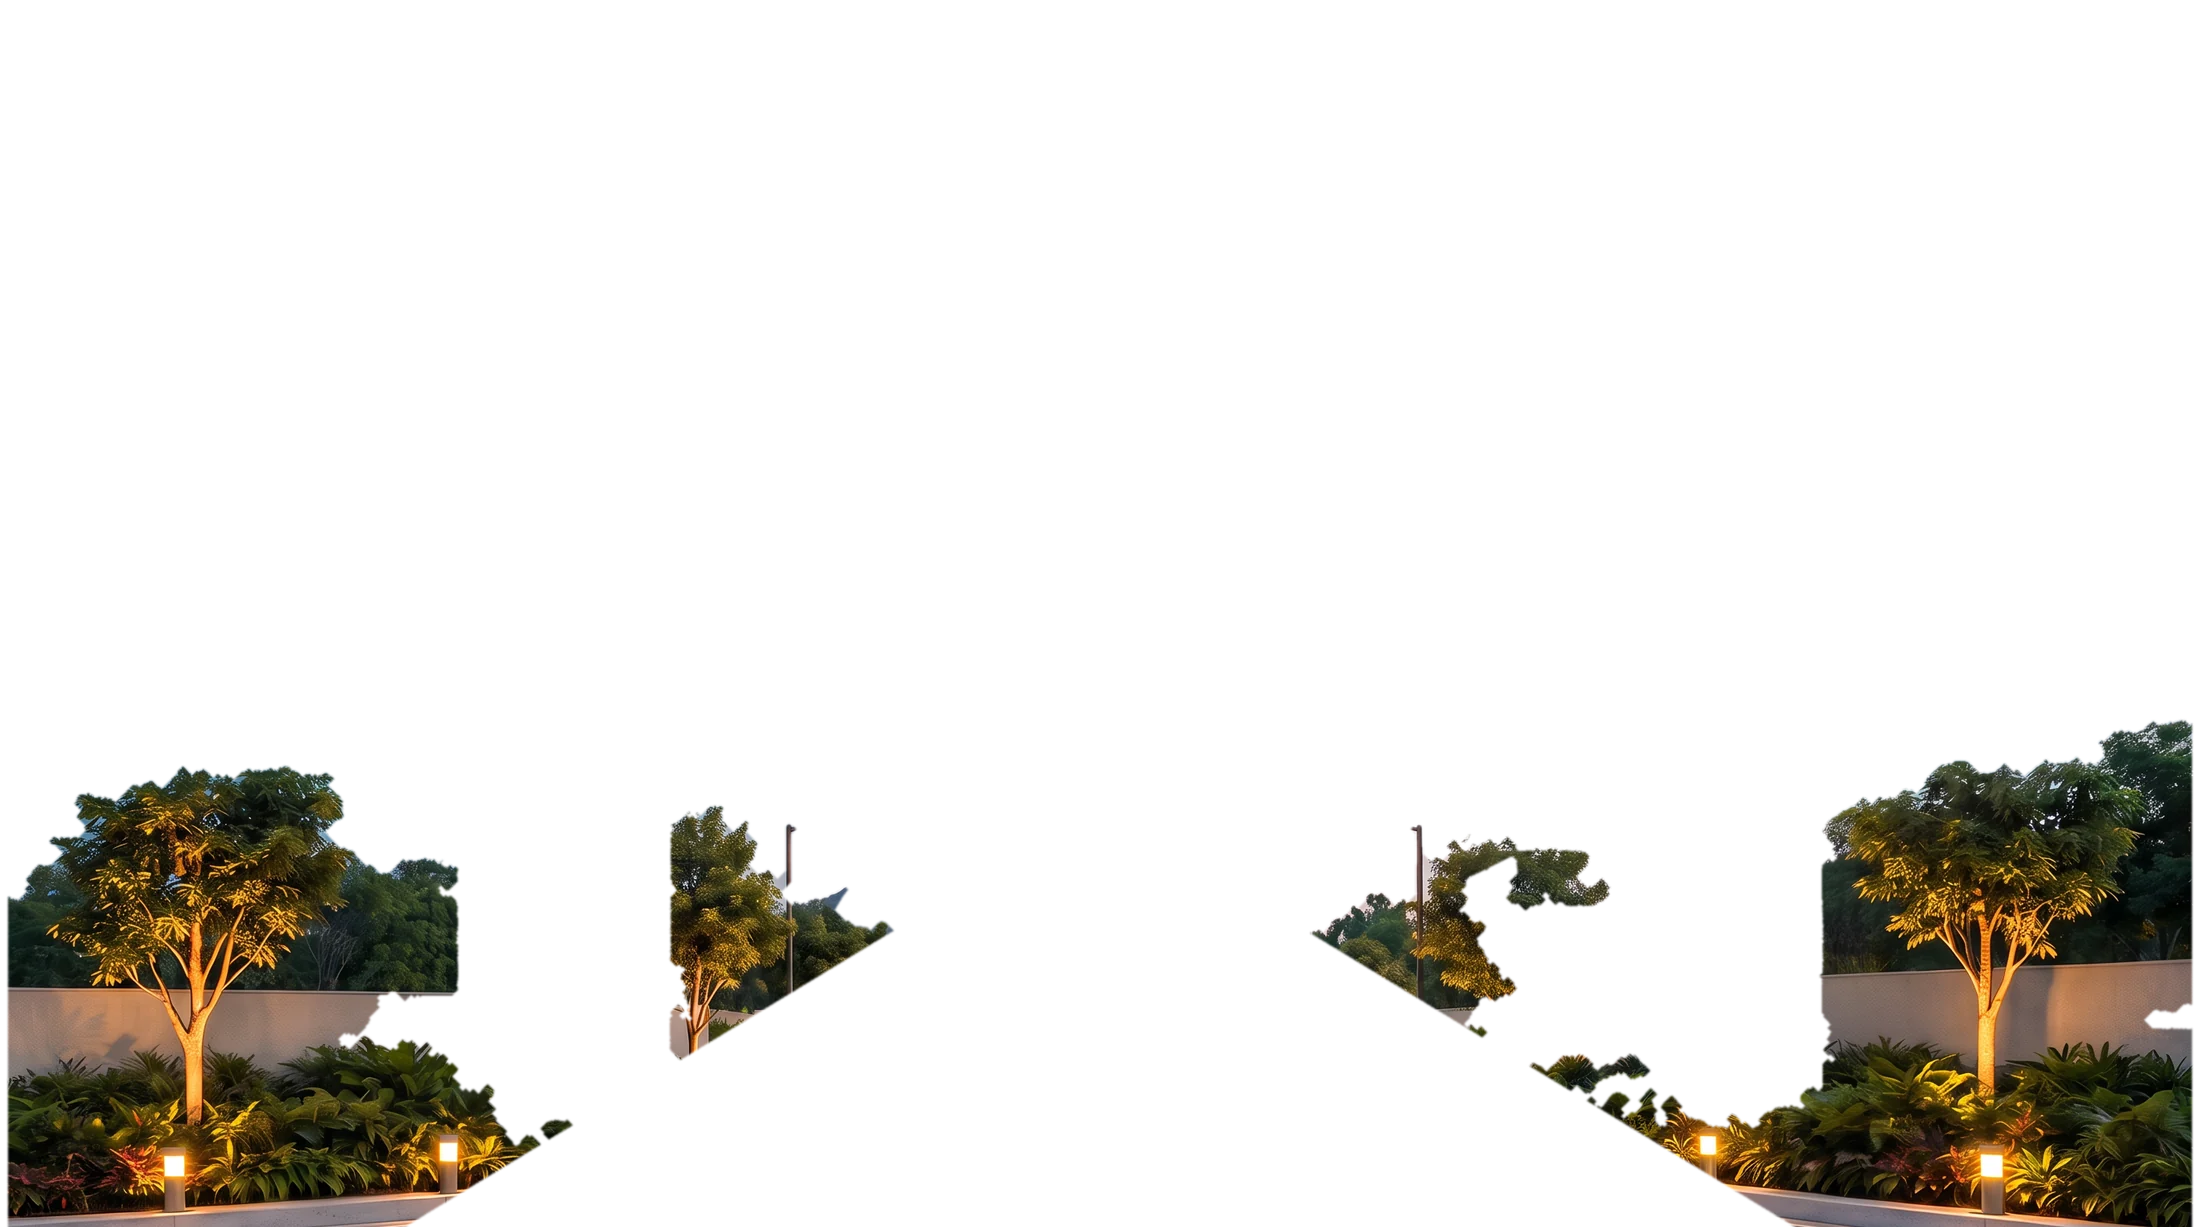
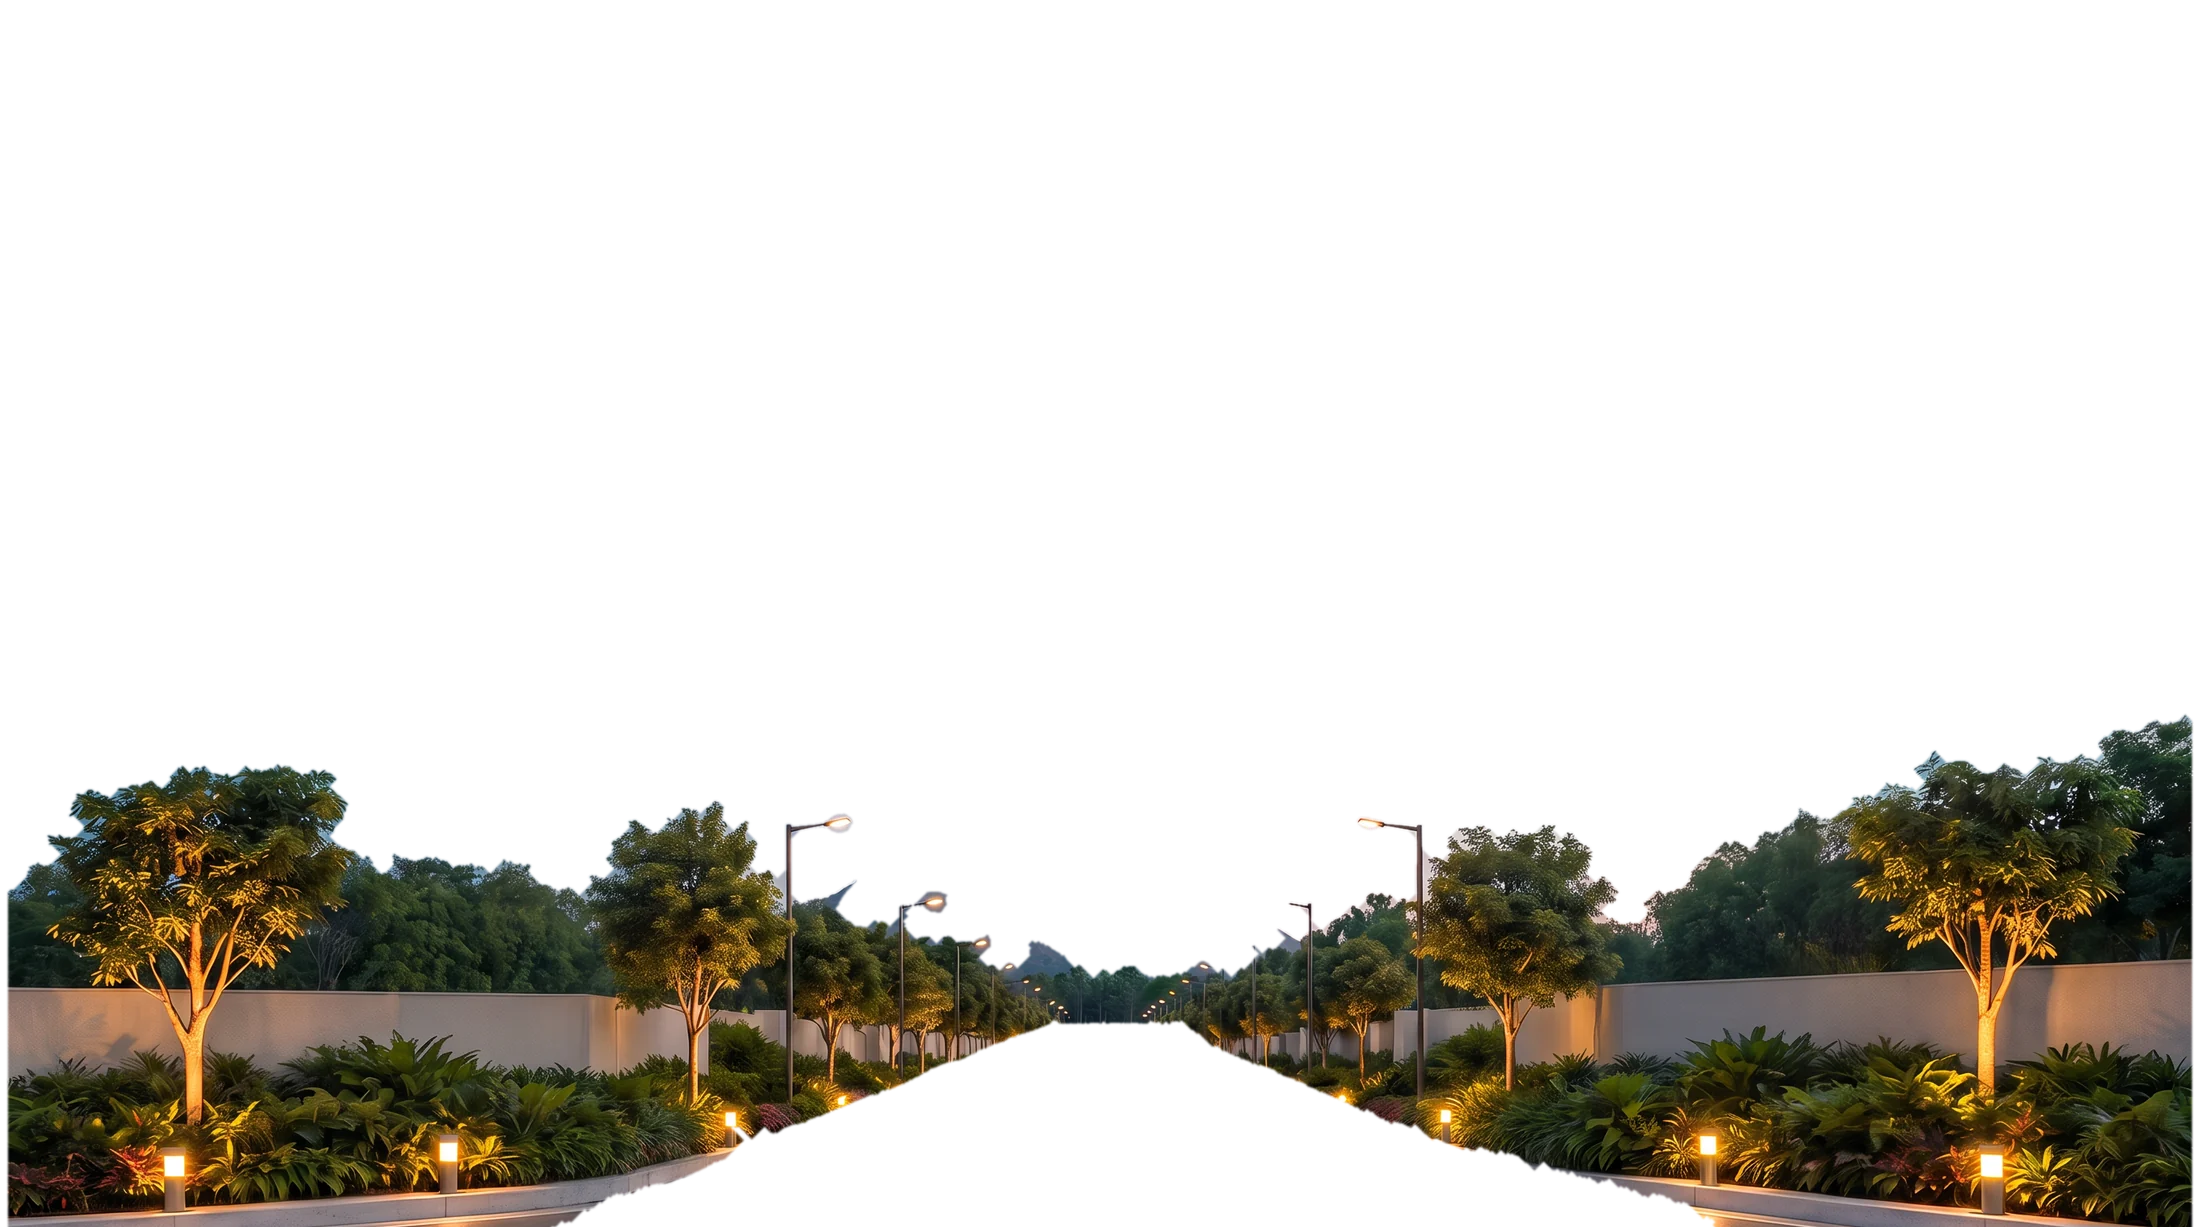
Launch: bare plot → planting pops at once → road is laid → gate rises as the letters land; tagline blurs in, button pops with a ring

diff --git a/mrc.css b/mrc.css
@@ -316,8 +316,9 @@ footer.site .about { font-size: .93rem; max-width: 42ch; margin-top: 1.2rem; }
   .pic.reveal { clip-path: none !important; }
   .rule.reveal { transform: none !important; }
   .launch-pro .elems, .launch-pro .gate { transform: none !important; opacity: 1 !important; }
+  .launch-pro .road { clip-path: none !important; }
   .launch-pro .stage { scale: 1 !important; }
-  .launch-pro .intro > * { opacity: 1 !important; transform: none !important; }
+  .launch-pro .intro > *, .launch-pro .intro .ch { opacity: 1 !important; transform: none !important; filter: none !important; }
 
   .roots-collage { clip-path: none !important; }
   .roots-collage img { translate: 0 0 !important; }
@@ -462,7 +463,7 @@ footer.site .about { font-size: .93rem; max-width: 42ch; margin-top: 1.2rem; }
 .hero-trust span { display: inline-flex; align-items: center; }
 .hero-trust-dot { width: 6px; height: 6px; border-radius: 50%; background: var(--teal-mid); display: inline-block; margin-right: .5rem; }
 
-/* ---- launch: the gate builds itself — planting pops up from the ground, then the gate rises while the title drops in ---- */
+/* ---- launch: the gate builds itself — planting pops up from the ground, the road is laid, the gate rises while the title lands ---- */
 .launch-pro { position: relative; background: #0c3033; color: #fff; overflow: hidden; aspect-ratio: 16 / 9; max-height: 100vh; min-height: 560px; padding: 0; --p: .5; }
 .launch-pro .scene { position: absolute; inset: 0; }
 /* the stage is the render's own box, cover-fitted and pinned to the ground, so every layer lines up at any viewport */
@@ -471,37 +472,44 @@ footer.site .about { font-size: .93rem; max-width: 42ch; margin-top: 1.2rem; }
   aspect-ratio: 2200 / 1227; min-width: 100%; min-height: 100%; transform-origin: 50% 100%;
 }
 .launch-pro .stage img { position: absolute; left: 0; top: 0; width: 100%; height: 100%; display: block; }
-.launch-pro .elems { transform: translateY(45%); opacity: 0; }
-.launch-pro .elems[style*="--g:0"] { clip-path: inset(0 76% 0 0); }
-.launch-pro .elems[style*="--g:1"] { clip-path: inset(0 24% 0 24%); }
-.launch-pro .elems[style*="--g:2"] { clip-path: inset(0 0 0 76%); }
+.launch-pro .stage .elems { transform: translateY(40%); opacity: 0; }
+.launch-pro .stage .road { clip-path: inset(100% 0 0 0); }
 /* the gate sprite is cropped to its own box; these are its coordinates in the render */
-.launch-pro .stage .gate { left: 15.32%; top: 37.9%; width: 68.23%; height: auto; transform: translateY(110%); filter: drop-shadow(0 24px 30px rgba(0,0,0,.35)); }
+.launch-pro .stage .gate { left: 15.32%; top: 37.9%; width: 68.05%; height: auto; transform: translateY(110%); filter: drop-shadow(0 24px 30px rgba(0,0,0,.35)); }
 /* steadies the title area over the graded sky */
 .launch-pro .scene::before { content: ""; position: absolute; left: 0; right: 0; top: 0; height: 36%; z-index: 1; pointer-events: none;
   background: linear-gradient(to bottom, rgba(12,48,51,.75) 0%, rgba(12,48,51,.3) 55%, rgba(12,48,51,0) 100%); }
 .launch-pro .intro { position: relative; z-index: 2; text-align: center; padding-top: clamp(1.8rem, 3vw, 2.8rem); }
-.launch-pro .intro > * { opacity: 0; }
+.launch-pro .intro > :not(.display) { opacity: 0; }
 .launch-pro .intro .display { color: #fff; font-size: clamp(2.4rem, 5vw, 3.8rem); letter-spacing: .02em; }
+.launch-pro .intro .ch { display: inline-block; font-style: normal; opacity: 0; will-change: transform, filter; }
 .launch-pro .intro .tag { margin-top: .6rem; font-family: var(--font-d); font-size: clamp(1.2rem, 2.2vw, 1.7rem); font-weight: 500; color: rgba(255,255,255,.92); }
 .launch-pro .intro .when { margin-top: .5rem; font-size: 1.02rem; color: rgba(255,255,255,.62); }
 .launch-pro .intro .hero-cta { justify-content: center; margin-top: 1.3rem; }
 .launch-pro .intro .btn-ink { background: var(--gold); color: var(--text); }
 .launch-pro .intro .btn-ink:hover { background: #d3bb95; box-shadow: 0 10px 32px rgba(196,169,125,.4); }
-/* sequence: planting pops (left, middle, right) → gate rises as the title drops → button */
-html.js .launch-pro.in .elems { animation: popUp 1.1s cubic-bezier(.2, 1.25, .4, 1) calc(.15s + var(--g) * .18s) forwards; }
-html.js .launch-pro.in .gate { animation: gateRise 2s cubic-bezier(.3, .9, .25, 1) 1s forwards; }
-html.js .launch-pro.in .intro > * { animation: dropIn 1.1s var(--ease) calc(1.1s + var(--i, 0) * .15s) forwards; }
-html.js .launch-pro.in .intro .hero-cta { animation: riseIn .8s var(--ease) 2.6s forwards; }
-.launch-pro .intro > :nth-child(2) { --i: 1; } .launch-pro .intro > :nth-child(3) { --i: 2; }
-html.js .launch-pro.in .stage { animation: gateDrift 26s ease-out 3.6s forwards; }
-@keyframes popUp { 0% { transform: translateY(45%); opacity: 0; } 25% { opacity: 1; } 100% { transform: none; opacity: 1; } }
+/* sequence: planting pops → road is laid → gate rises while the letters land one by one → tagline → button */
+html.js .launch-pro.in .elems { animation: popUp 1.1s cubic-bezier(.2, 1.25, .4, 1) .15s forwards; }
+html.js .launch-pro.in .road { animation: layRoad 1.3s cubic-bezier(.6, 0, .25, 1) .9s forwards; }
+html.js .launch-pro.in .gate { animation: gateRise 2s cubic-bezier(.3, .9, .25, 1) 1.7s forwards; }
+html.js .launch-pro.in .ch { animation: letterLand .8s cubic-bezier(.2, 1.1, .3, 1) calc(1.9s + var(--c) * .07s) forwards; }
+html.js .launch-pro.in .tag { animation: blurIn 1s var(--ease) 2.9s forwards; }
+html.js .launch-pro.in .when { animation: riseIn .8s var(--ease) 3.3s forwards; }
+html.js .launch-pro.in .hero-cta { animation: btnPop .7s cubic-bezier(.2, 1.3, .4, 1) 3.7s forwards; }
+html.js .launch-pro.in .hero-cta .btn { animation: ring 1.1s ease-out 4.1s; }
+html.js .launch-pro.in .stage { animation: gateDrift 26s ease-out 4.2s forwards; }
+@keyframes popUp { 0% { transform: translateY(40%); opacity: 0; } 25% { opacity: 1; } 100% { transform: none; opacity: 1; } }
+@keyframes layRoad { to { clip-path: inset(0 0 0 0); } }
 @keyframes gateRise { to { transform: none; } }
-@keyframes dropIn { from { opacity: 0; transform: translateY(-60px); } to { opacity: 1; transform: none; } }
+@keyframes letterLand { 0% { opacity: 0; transform: translateY(-.9em); filter: blur(10px); } 55% { filter: blur(0); } 100% { opacity: 1; transform: none; filter: blur(0); } }
+@keyframes blurIn { from { opacity: 0; filter: blur(12px); transform: scale(1.05); } to { opacity: 1; filter: blur(0); transform: none; } }
+@keyframes btnPop { 0% { opacity: 0; transform: scale(.7); } 100% { opacity: 1; transform: none; } }
+@keyframes ring { from { box-shadow: 0 0 0 0 rgba(196,169,125,.7); } to { box-shadow: 0 0 0 26px rgba(196,169,125,0); } }
 @keyframes gateDrift { to { scale: 1.05; } }
 html.js .launch-pro.reveal { opacity: 1; transform: none; }
 html:not(.js) .launch-pro .elems, html:not(.js) .launch-pro .gate { transform: none; opacity: 1; }
-html:not(.js) .launch-pro .intro > * { opacity: 1; }
+html:not(.js) .launch-pro .road { clip-path: none; }
+html:not(.js) .launch-pro .intro > *, html:not(.js) .launch-pro .intro .ch { opacity: 1; }
 @media (max-width: 760px) {
   .launch-pro { aspect-ratio: auto; min-height: 170vw; max-height: none; }
   .launch-pro .intro { padding-top: 2rem; }

diff --git a/index.html b/index.html
@@ -80,13 +80,12 @@
   <section class="launch-pro reveal" id="launch">
     <div class="scene"><div class="stage">
       <img class="plate" src="anantaa-gate-plate.jpg" alt="" width="2200" height="1227">
-      <img class="elems" src="anantaa-gate-elements.webp" alt="" width="2200" height="1227" style="--g:0">
-      <img class="elems" src="anantaa-gate-elements.webp" alt="" width="2200" height="1227" style="--g:1">
-      <img class="elems" src="anantaa-gate-elements.webp" alt="" width="2200" height="1227" style="--g:2">
-      <img class="gate" src="anantaa-gate-sprite.webp" alt="ANANTAA entrance gate at dusk, Othakadai, Madurai" width="1501" height="762">
+      <img class="elems" src="anantaa-gate-elements.webp" alt="" width="2200" height="1227">
+      <img class="road" src="anantaa-gate-road.webp" alt="" width="2200" height="1227">
+      <img class="gate" src="anantaa-gate-sprite.webp" alt="ANANTAA entrance gate at dusk, Othakadai, Madurai" width="1497" height="633">
     </div></div>
     <div class="wrap intro">
-      <h2 class="display reveal">ANANTAA</h2>
+      <h2 class="display" aria-label="ANANTAA"><span aria-hidden="true"><i class="ch" style="--c:0">A</i><i class="ch" style="--c:1">N</i><i class="ch" style="--c:2">A</i><i class="ch" style="--c:3">N</i><i class="ch" style="--c:4">T</i><i class="ch" style="--c:5">A</i><i class="ch" style="--c:6">A</i></span></h2>
       <p class="tag">A Life Without Limits.</p>
       <p class="when">Pre-launch &middot; Book your plot</p>
       <div class="hero-cta"><a class="btn btn-ink" href="project-anantaa.html">Explore ANANTAA</a></div>
